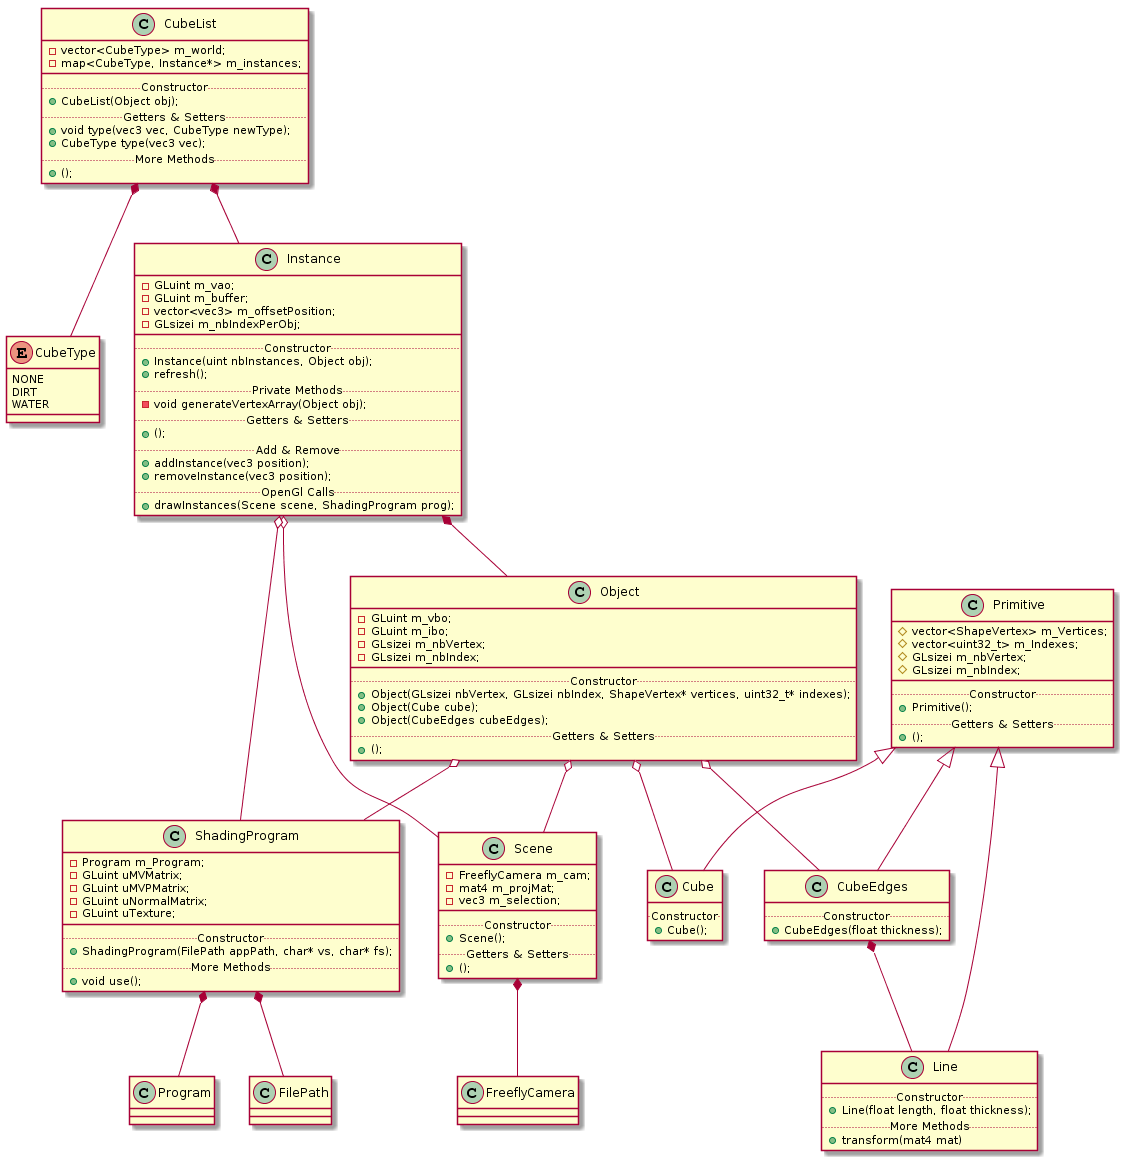
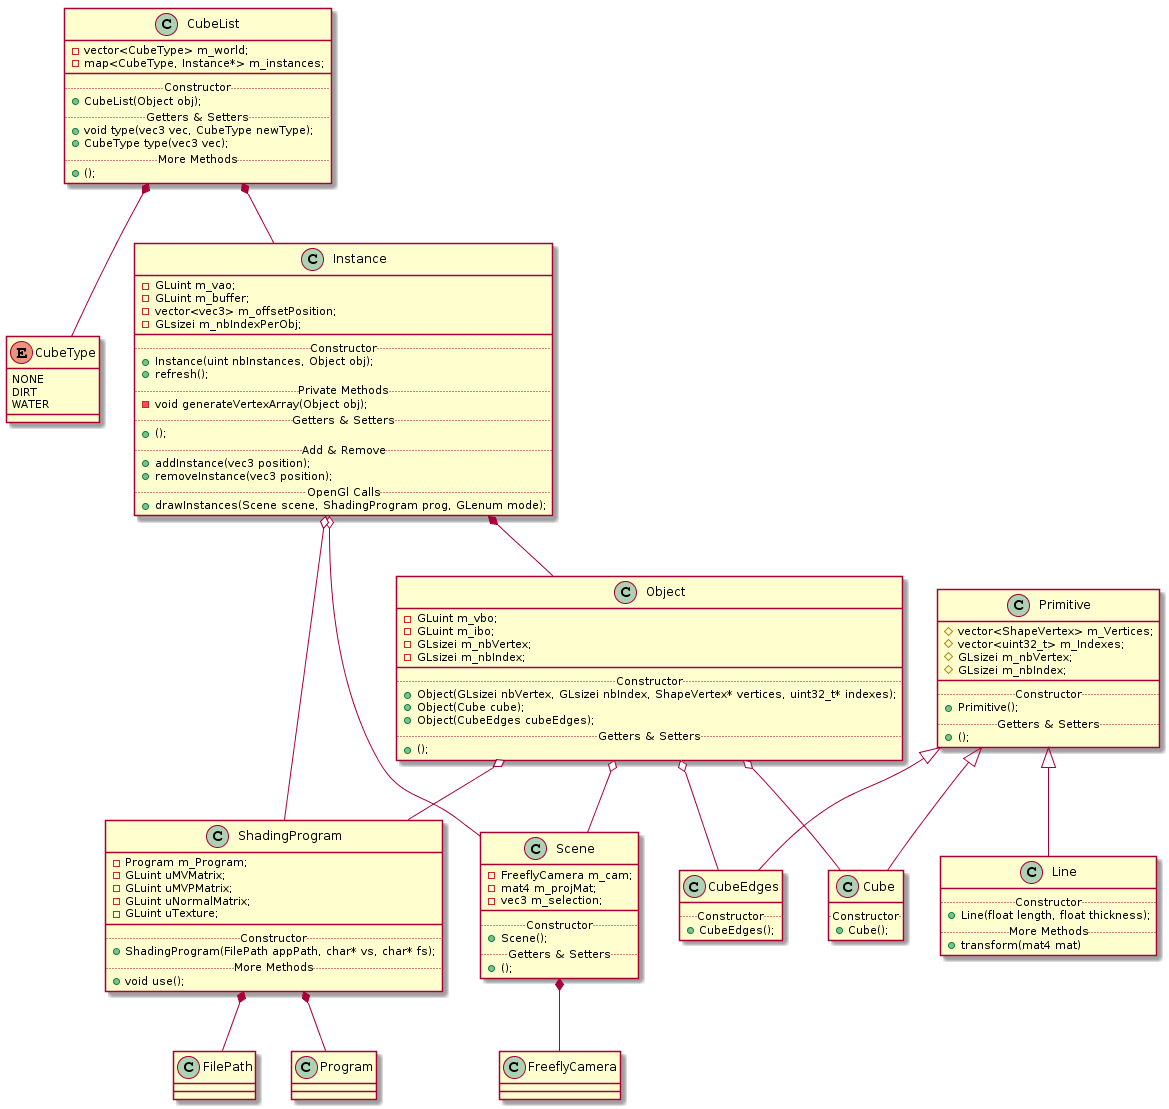
Remake the CubeEdges drawing
- Use a geometry shader to control thickness of the edges
- Clean the primitives classes

Changed region(s): [[0.0, 0.0, 0.9973, 1.0], [0.4052, 0.9197, 0.561, 1.0]]

diff --git a/lib/glimac/src/primitives/CubeEdges.cpp b/lib/glimac/src/primitives/CubeEdges.cpp
@@ -1,5 +1,4 @@
 #include "glimac/primitives/CubeEdges.hpp"
-#include "glimac/primitives/Line.hpp"
 #include <iostream>
 #include <cassert>
 #include <algorithm>
@@ -8,45 +7,36 @@ namespace glimac {
 
 /***** CLASS CUBE EDGES - METHODS *****/
 
-    CubeEdges::CubeEdges(const float& thickness) : Primitive(96, 432) {
-        const Line line(1+thickness, thickness);
+    CubeEdges::CubeEdges() : Primitive(8, 24) {
 
-        float offset = 1/2.f;
+        const std::vector<ShapeVertexHomo> quad = createQuad(1); //Create 4 vertices
 
         std::vector<glm::mat4> transforms = {
-            glm::rotate(glm::translate(glm::mat4(), glm::vec3(-offset, 0, offset)), glm::radians(90.f), glm::vec3(1, 0, 0)), //Front face 1
-            glm::rotate(glm::translate(glm::mat4(), glm::vec3(0, -offset, offset)), glm::radians(90.f), glm::vec3(0, 1, 0)), //Front face 2
-            glm::rotate(glm::translate(glm::mat4(), glm::vec3(offset, 0, offset)), glm::radians(90.f), glm::vec3(1, 0, 0)), //Front face 3
-            glm::rotate(glm::translate(glm::mat4(), glm::vec3(0, offset, offset)), glm::radians(90.f), glm::vec3(0, 1, 0)), //Front face 4
-            glm::rotate(glm::translate(glm::mat4(), glm::vec3(-offset, 0, -offset)), glm::radians(90.f), glm::vec3(1, 0, 0)), //Back face 1
-            glm::rotate(glm::translate(glm::mat4(), glm::vec3(0, -offset, -offset)), glm::radians(90.f), glm::vec3(0, 1, 0)), //Back face 2
-            glm::rotate(glm::translate(glm::mat4(), glm::vec3(offset, 0, -offset)), glm::radians(90.f), glm::vec3(1, 0, 0)), //Back face 3
-            glm::rotate(glm::translate(glm::mat4(), glm::vec3(0, offset, -offset)), glm::radians(90.f), glm::vec3(0, 1, 0)), //Back face 4
-            glm::translate(glm::mat4(), glm::vec3(-offset, offset, 0)), //Left side 1
-            glm::translate(glm::mat4(), glm::vec3(-offset, -offset, 0)), //Left side 2
-            glm::translate(glm::mat4(), glm::vec3(offset, offset, 0)), //Right side 1
-            glm::translate(glm::mat4(), glm::vec3(offset, -offset, 0)) //Right side 2
+            glm::translate(glm::mat4(), glm::vec3(0, 0, 0.5)), //Front face
+            glm::translate(glm::mat4(), glm::vec3(0, 0, -0.5)) //Back face
         };
 
+        // Fill Vertices Data
         for(const auto &mat:transforms) {
-            Line currentLine = line; //Create a new line
+            std::vector<ShapeVertexHomo> face = quad; //Create a face from the 4 vertices
 
-            currentLine.transform(mat); //Put the line in the right place in 3D space
-            pushLine(currentLine); //Push VBO and IBO into CubeEdges data
+            transformShapeVertexVector(face, mat); //Put the face in the right place in 3D space
+            m_Vertices.insert(m_Vertices.begin() + m_nbVertex, face.cbegin(), face.cend());
+            m_nbVertex += 4;
         }
+
+        // Fill Indexes Data
+        std::vector<uint32_t> indexes = {
+            0, 1, 0, 2, 0, 4,
+            1, 3, 1, 5,
+            2, 3, 2, 6,
+            3, 7,
+            4, 5, 4, 6,
+            5, 7,
+            6, 7
+        };
+        m_Indexes.insert(m_Indexes.begin() + m_nbIndex, indexes.cbegin(), indexes.cend());
+        m_nbIndex += 24;
     }
 
-
-    void CubeEdges::pushLine(Line& line) {
-        
-        uint32_t offset = m_nbVertex;       
-
-        std::for_each(line.indexes().begin(), line.indexes().end(), [offset](uint32_t& val) {val += offset;});
-        
-        m_Vertices.insert(m_Vertices.begin() + m_nbVertex, line.vertices().cbegin(), line.vertices().cend());
-        m_Indexes.insert(m_Indexes.begin() + m_nbIndex, line.indexes().cbegin(), line.indexes().cend());
-
-        m_nbVertex += 8;
-        m_nbIndex += 36;
-    }
 }

diff --git a/lib/glimac/src/shading/Program.cpp b/lib/glimac/src/shading/Program.cpp
@@ -36,6 +36,7 @@ Program buildProgram(const GLchar* vsSrc, const GLchar* fsSrc) {
 		throw std::runtime_error("Compilation error for fragment shader: " + fs.getInfoLog());
 	}
 
+
 	Program program;
 	program.attachShader(vs);
 	program.attachShader(fs);
@@ -48,7 +49,7 @@ Program buildProgram(const GLchar* vsSrc, const GLchar* fsSrc) {
 }
 
 // Load source code from files and build a GLSL program
-Program loadProgram(const FilePath& vsFile, const FilePath& fsFile) {
+Program loadProgram(const FilePath& vsFile, const FilePath& fsFile, const FilePath& gsFile) {
 	Shader vs = loadShader(GL_VERTEX_SHADER, vsFile);
 	Shader fs = loadShader(GL_FRAGMENT_SHADER, fsFile);
 
@@ -60,9 +61,19 @@ Program loadProgram(const FilePath& vsFile, const FilePath& fsFile) {
 		throw std::runtime_error("Compilation error for fragment shader (from file " + std::string(fsFile) + "): " + fs.getInfoLog());
 	}
 
+
 	Program program;
 	program.attachShader(vs);
 	program.attachShader(fs);
+
+	if (gsFile.hasExt("glsl")) {
+		Shader gs = loadShader(GL_GEOMETRY_SHADER, gsFile);
+		if(!gs.compile()) {
+			throw std::runtime_error("Compilation error for geometry shader (from file " + std::string(gsFile) + "): " + gs.getInfoLog());
+		}
+		program.attachShader(gs);
+	}
+
 
 	if(!program.link()) {
         throw std::runtime_error("Link error (for files " + vsFile.str() + " and " + fsFile.str() + "): " + program.getInfoLog());

diff --git a/app/src/main.cpp b/app/src/main.cpp
@@ -47,7 +47,7 @@ int main(int argc, char** argv) {
         FilePath applicationPath(argv[0]);
         ShadingProgram texturedCubeProgram(applicationPath, "texturedCube.vs.glsl", "texturedCube.fs.glsl");
         ShadingProgram smallCubeProgram(applicationPath, "smallCube.vs.glsl", "texturedCube.fs.glsl");
-        ShadingProgram selectionCubeProgram(applicationPath, "selectionCube.vs.glsl", "selectionCube.fs.glsl");
+        ShadingProgram selectionCubeProgram(applicationPath, "selectionCube.vs.glsl", "selectionCube.fs.glsl", "selectionCube.gs.glsl");
 
 
     //CUBE
@@ -57,7 +57,7 @@ int main(int argc, char** argv) {
 
 
     //CUBE EDGES
-    Object cubeEdgesObj = Object(CubeEdges(0.05));
+    Object cubeEdgesObj = Object(CubeEdges());
     Instance cubeEdges(1, cubeEdgesObj);
 
 
@@ -158,7 +158,7 @@ int main(int argc, char** argv) {
             cubeList.instance(DIRT)->drawInstances(scene, texturedCubeProgram);        
 
         selectionCubeProgram.use();
-            cubeEdges.drawInstances(scene, selectionCubeProgram);
+            cubeEdges.drawInstances(scene, selectionCubeProgram, GL_LINES);
 
         // Update the display
         windowManager.swapBuffers();

diff --git a/lib/glimac/src/common/Instance.cpp b/lib/glimac/src/common/Instance.cpp
@@ -118,7 +118,7 @@ namespace glimac {
         refresh();
     }  
 
-    void Instance::drawInstances(const Scene& scene, const ShadingProgram& prog) const {
+    void Instance::drawInstances(const Scene& scene, const ShadingProgram& prog, GLenum mode) const {
         glBindVertexArray(m_vao);
             glm::mat4 MVMatrix = scene.viewMatrix();
 
@@ -127,7 +127,7 @@ namespace glimac {
             glUniformMatrix4fv(prog.uMVPMatrix, 1, GL_FALSE, glm::value_ptr(scene.projMat() * MVMatrix));
             glUniformMatrix4fv(prog.uNormalMatrix, 1, GL_FALSE, glm::value_ptr(glm::transpose(glm::inverse(MVMatrix))));
 
-            glDrawElementsInstanced(GL_TRIANGLES, nbIndexPerObj(), GL_UNSIGNED_INT, 0, nbInstances());
+            glDrawElementsInstanced(mode, nbIndexPerObj(), GL_UNSIGNED_INT, 0, nbInstances());
         glBindVertexArray(0);
     }
 

diff --git a/lib/glimac/include/glimac/primitives/Primitive.hpp b/lib/glimac/include/glimac/primitives/Primitive.hpp
@@ -15,6 +15,22 @@ class Primitive {
         std::vector<uint32_t> m_Indexes;
         GLsizei m_nbVertex;
         GLsizei m_nbIndex;
+
+        void pushQuad(const std::vector<ShapeVertexHomo> &quad) {
+            assert(quad.size() == 4);
+
+            uint32_t offset = m_nbVertex;       
+            std::vector<uint32_t> newIndex = {
+                offset+0, offset+1, offset+2, //First tri
+                offset+1, offset+2, offset+3 //Second tri
+            };
+            
+            m_Vertices.insert(m_Vertices.begin() + m_nbVertex, quad.cbegin(), quad.cend());
+            m_Indexes.insert(m_Indexes.begin() + m_nbIndex, newIndex.cbegin(), newIndex.cend());
+
+            m_nbVertex += 4;
+            m_nbIndex += 6;            
+        }
     
     public:
         Primitive(const size_t& sizeVertex, const size_t& sizeIndex)

diff --git a/lib/glimac/src/shading/ShadingProgram.cpp b/lib/glimac/src/shading/ShadingProgram.cpp
@@ -2,8 +2,8 @@
 
 namespace glimac {
 
-ShadingProgram::ShadingProgram(const FilePath& applicationPath, const char* vs, const char* fs)
-    : m_Program(loadProgram(applicationPath.dirPath() + "shaders/" + vs, applicationPath.dirPath() + "shaders/" + fs)) {
+ShadingProgram::ShadingProgram(const FilePath& applicationPath, const char* vs, const char* fs, const char* gs)
+    : m_Program(loadProgram(applicationPath.dirPath() + "shaders/" + vs, applicationPath.dirPath() + "shaders/" + fs, applicationPath.dirPath() + "shaders/" + gs)) {
         uMVMatrix = glGetUniformLocation(m_Program.getGLId(), "uMVMatrix");
         uMVPMatrix = glGetUniformLocation(m_Program.getGLId(), "uMVPMatrix");
         uNormalMatrix = glGetUniformLocation(m_Program.getGLId(), "uNormalMatrix");

diff --git a/lib/glimac/src/primitives/Cube.cpp b/lib/glimac/src/primitives/Cube.cpp
@@ -27,21 +27,4 @@ namespace glimac {
         }
     }
 
-
-    void Cube::pushQuad(const std::vector<ShapeVertexHomo> &quad) {
-        assert(quad.size() == 4);
-
-        uint32_t offset = m_nbVertex;       
-        std::vector<uint32_t> newIndex = {
-            offset+0, offset+1, offset+2, //First tri
-            offset+1, offset+2, offset+3 //Second tri
-        };
-        
-        m_Vertices.insert(m_Vertices.begin() + m_nbVertex, quad.cbegin(), quad.cend());
-        m_Indexes.insert(m_Indexes.begin() + m_nbIndex, newIndex.cbegin(), newIndex.cend());
-
-        m_nbVertex += 4;
-        m_nbIndex += 6;
-    }
-
 }

diff --git a/lib/glimac/include/glimac/primitives/CubeEdges.hpp b/lib/glimac/include/glimac/primitives/CubeEdges.hpp
@@ -5,17 +5,13 @@
 #include <vector>
 
 #include "glimac/common/ShapeVertex.hpp"
-#include "glimac/primitives/Line.hpp"
 #include "glimac/primitives/Primitive.hpp"
 
 namespace glimac {
 
 class CubeEdges : public Primitive<ShapeVertex> {
-    private:
-        void pushLine(Line& line);
-    
     public:
-        CubeEdges(const float& thickness);
+        CubeEdges();
 };
 
 }

diff --git a/lib/glimac/include/glimac/common/Instance.hpp b/lib/glimac/include/glimac/common/Instance.hpp
@@ -32,7 +32,7 @@ class Instance {
         void removeInstance(const glm::vec3& position);
         void changeFirstInstance(const glm::vec3& position);
 
-        void drawInstances(const Scene& scene, const ShadingProgram& prog) const;
+        void drawInstances(const Scene& scene, const ShadingProgram& prog, GLenum mode = GL_TRIANGLES) const;
 };
 
 }

diff --git a/lib/glimac/include/glimac/shading/Program.hpp b/lib/glimac/include/glimac/shading/Program.hpp
@@ -54,7 +54,7 @@ private:
 Program buildProgram(const GLchar* vsSrc, const GLchar* fsSrc);
 
 // Load source code from files and build a GLSL program
-Program loadProgram(const FilePath& vsFile, const FilePath& fsFile);
+Program loadProgram(const FilePath& vsFile, const FilePath& fsFile, const FilePath& gsFile);
 
 
 }

diff --git a/lib/glimac/include/glimac/shading/ShadingProgram.hpp b/lib/glimac/include/glimac/shading/ShadingProgram.hpp
@@ -14,7 +14,7 @@ struct ShadingProgram {
     GLuint uNormalMatrix;
     GLuint uTexture;
 
-    ShadingProgram(const FilePath& applicationPath, const char* vs, const char* fs);
+    ShadingProgram(const FilePath& applicationPath, const char* vs, const char* fs, const char* gs = "");
     void use() const;
 };
 

diff --git a/lib/glimac/include/glimac/primitives/Cube.hpp b/lib/glimac/include/glimac/primitives/Cube.hpp
@@ -10,9 +10,6 @@
 namespace glimac {
 
 class Cube : public Primitive<ShapeVertex> {
-    private:
-        void pushQuad(const std::vector<ShapeVertexHomo> &quad);
-    
     public:
         Cube();
 };
